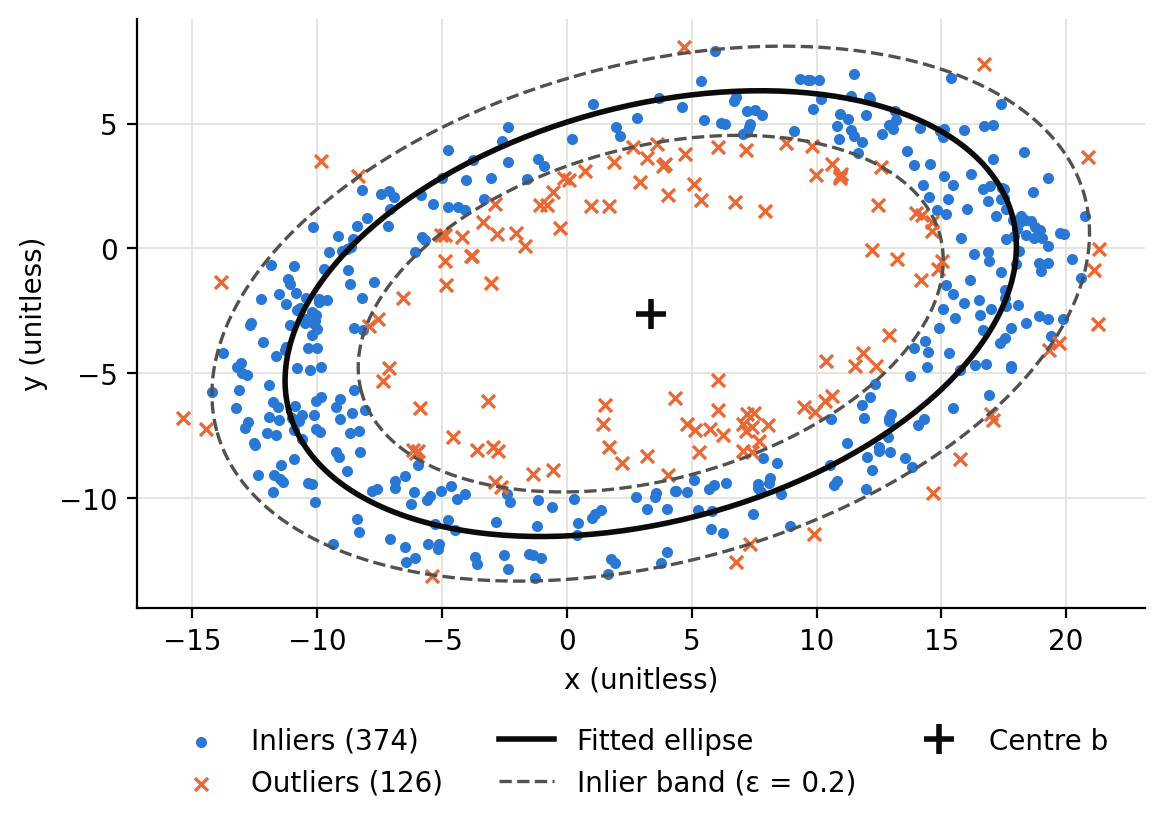
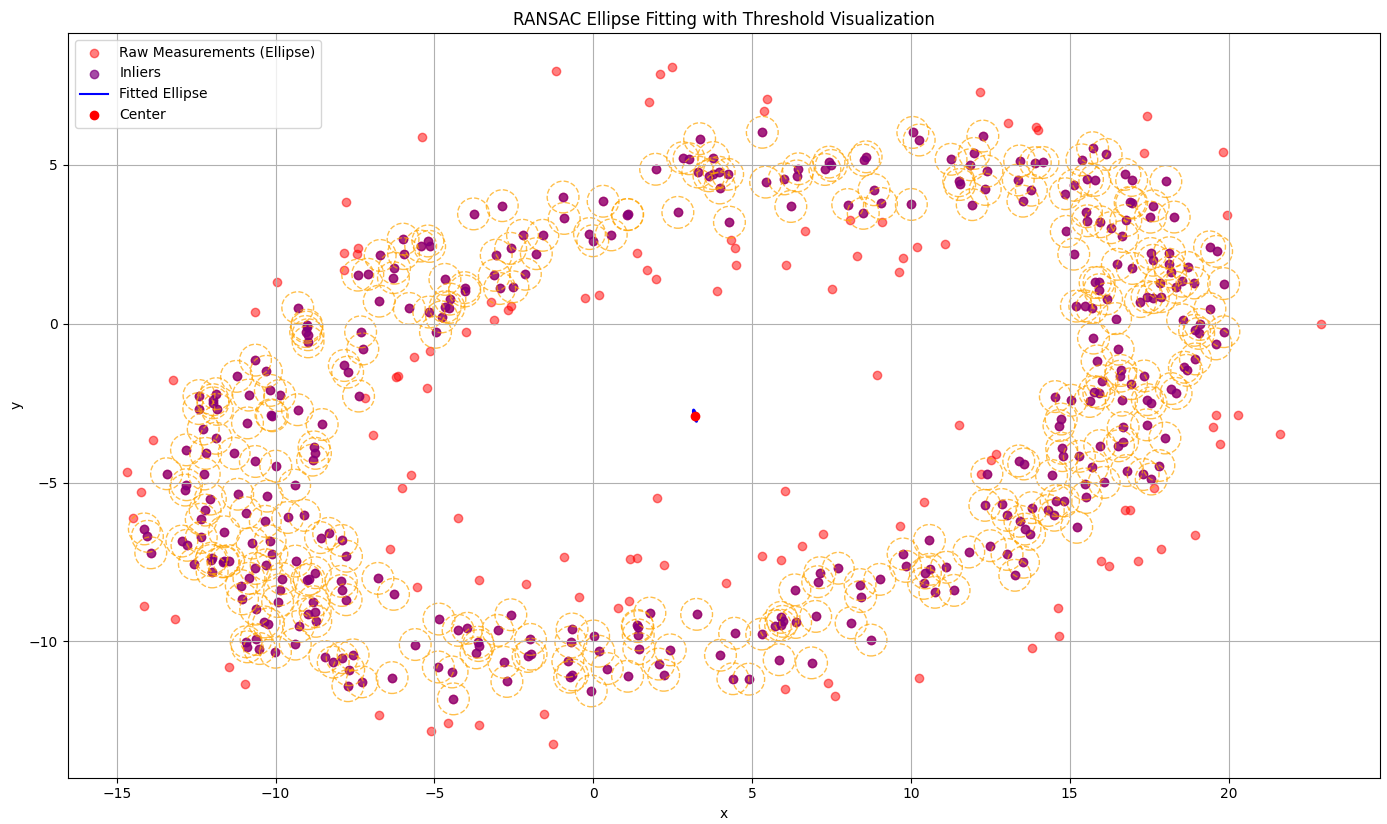
chore(code): tidy Q1 comments and expose RANSAC settings in Q2 main
- Shorten the step comments in the Q1 script
- Pass num_iterations and threshold explicitly in the Q2 main block so
  they can be changed for the 2c runs (defaults unchanged)

diff --git a/code/MTE_544_AS2_Q1_ArjunMandair.py b/code/MTE_544_AS2_Q1_ArjunMandair.py
@@ -12,23 +12,23 @@ np.set_printoptions(precision=8, suppress=True)
 P = np.array([(2.92, -6.01), (3.40, -7.20), (4.99, -7.84), (5.48, -7.04), (4.20, -5.91)])
 x, y = P[:, 0], P[:, 1]
  
-# Step 1: build M, one row per point: [x^2, 2xy, y^2, -2x, -2y]
+# build M, one row per point: [x^2, 2xy, y^2, -2x, -2y]
 M = np.column_stack([x**2, 2*x*y, y**2, -2*x, -2*y])
 print("M =\n", M)
 print("rank(M) =", np.linalg.matrix_rank(M))
  
-# Step 2: solve M theta = -1 (vector of -1s)
+# solve M theta = -1 (vector of -1s)
 theta = np.linalg.solve(M, -np.ones(5))
 A, B, C, D, E = theta
 print("\nA, B, C, D, E =", theta)
  
-# Step 3: convert to quadratic form
+# convert to quadratic form
 N = np.array([[A, B], [B, C]])
 d = np.array([D, E])
 print("\ndet(N) =", np.linalg.det(N))
 N_inv = np.linalg.inv(N)
-b = N_inv @ d                      # centre
-s = d @ N_inv @ d                  # d^T N^-1 d (must not equal 1)
+b = N_inv @ d
+s = d @ N_inv @ d
 alpha = 1 / (s - 1)
 Q = alpha * N
 print("N^-1 =\n", N_inv)
@@ -37,19 +37,19 @@ print("d^T N^-1 d =", s)
 print("alpha =", alpha)
 print("Q =\n", Q)
  
-# Step 4: checks
+# checks
 eigvals, eigvecs = np.linalg.eigh(Q)
 print("\neigenvalues of Q =", eigvals, "-> ellipse" if np.all(eigvals > 0) else "-> NOT an ellipse")
 for p in P:
     print(f"point {p}: (p-b)^T Q (p-b) = {(p - b) @ Q @ (p - b):.6f}")
 print("Qb =", Q @ b, " alpha*d =", alpha * d)
  
-# Interpretation: semi-axes = 1/sqrt(eigenvalue), major axis along the smaller eigenvalue's eigenvector
+# interpretation semi-axes = 1/sqrt(eigenvalue), major axis along the smaller eigenvalue's eigenvector
 semi_axes = 1 / np.sqrt(eigvals)
 angle = np.degrees(np.arctan2(eigvecs[1, 0], eigvecs[0, 0]))
 print("\nsemi-axes =", semi_axes, " major-axis angle (deg) =", angle)
  
-# Plot: points on the ellipse p = b + R diag(semi_axes) [cos t, sin t]
+# plot points on the ellipse p = b + R diag(semi_axes) [cos t, sin t]
 t = np.linspace(0, 2*np.pi, 200)
 curve = b[:, None] + eigvecs @ np.diag(semi_axes) @ np.vstack([np.cos(t), np.sin(t)])
 plt.plot(curve[0], curve[1], 'b-', label='Fitted ellipse')
@@ -58,7 +58,7 @@ plt.plot(b[0], b[1], 'k+', markersize=12, label='Centre b')
 plt.gca().set_aspect('equal')
 plt.grid(True); plt.legend(); plt.xlabel('x (unitless)'); plt.ylabel('y (unitless)')
 plt.title('Q1b: ellipse through 5 points')
-# Save the figure for the report (the folder is created if it doesn't exist)
+# save the figure for the report (the folder is created if it doesn't exist)
 fig_dir = Path(__file__).resolve().parent.parent / 'report' / 'figures'
 fig_dir.mkdir(parents=True, exist_ok=True)
 plt.savefig(fig_dir / 'q1b_ellipse.png', dpi=200, bbox_inches='tight')

diff --git a/code/MTE_544_AS2_Q2_ArjunMandair.py b/code/MTE_544_AS2_Q2_ArjunMandair.py
@@ -119,7 +119,8 @@ if __name__ == "__main__":
     dataset = all_data[np.random.choice(all_data.shape[0], N, replace=False), :]
     # dataset is p
     
-    Q, b_est, inliers = ransac_ellipse(dataset)
+    # NOTE I EDIT THIS FOR THE REPORT, YOU CAN CHANGE IT BACK TO 1000 OR WHATEVER YOU WANT
+    Q, b_est, inliers = ransac_ellipse(dataset, num_iterations=1000, threshold=0.2)
     
     # Plot the raw measurements and fitted ellipse
     fig, ax1 = plt.subplots(1, 1, figsize=(16, 8))
